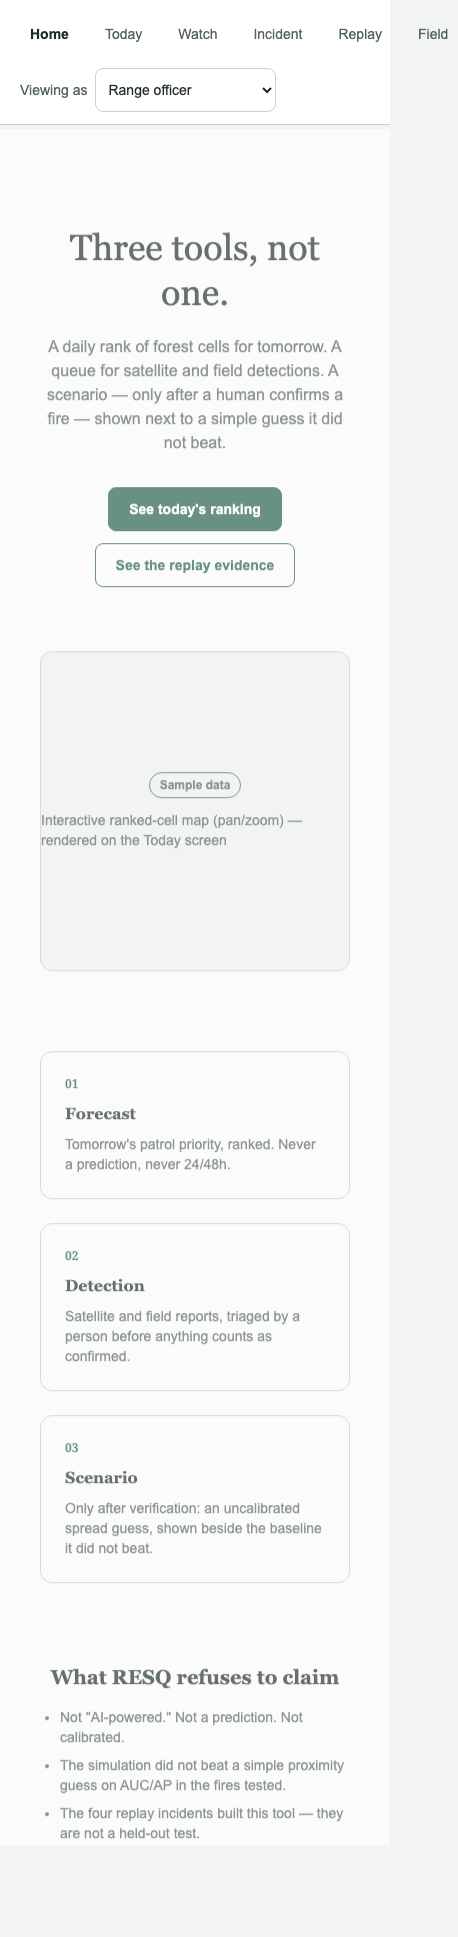
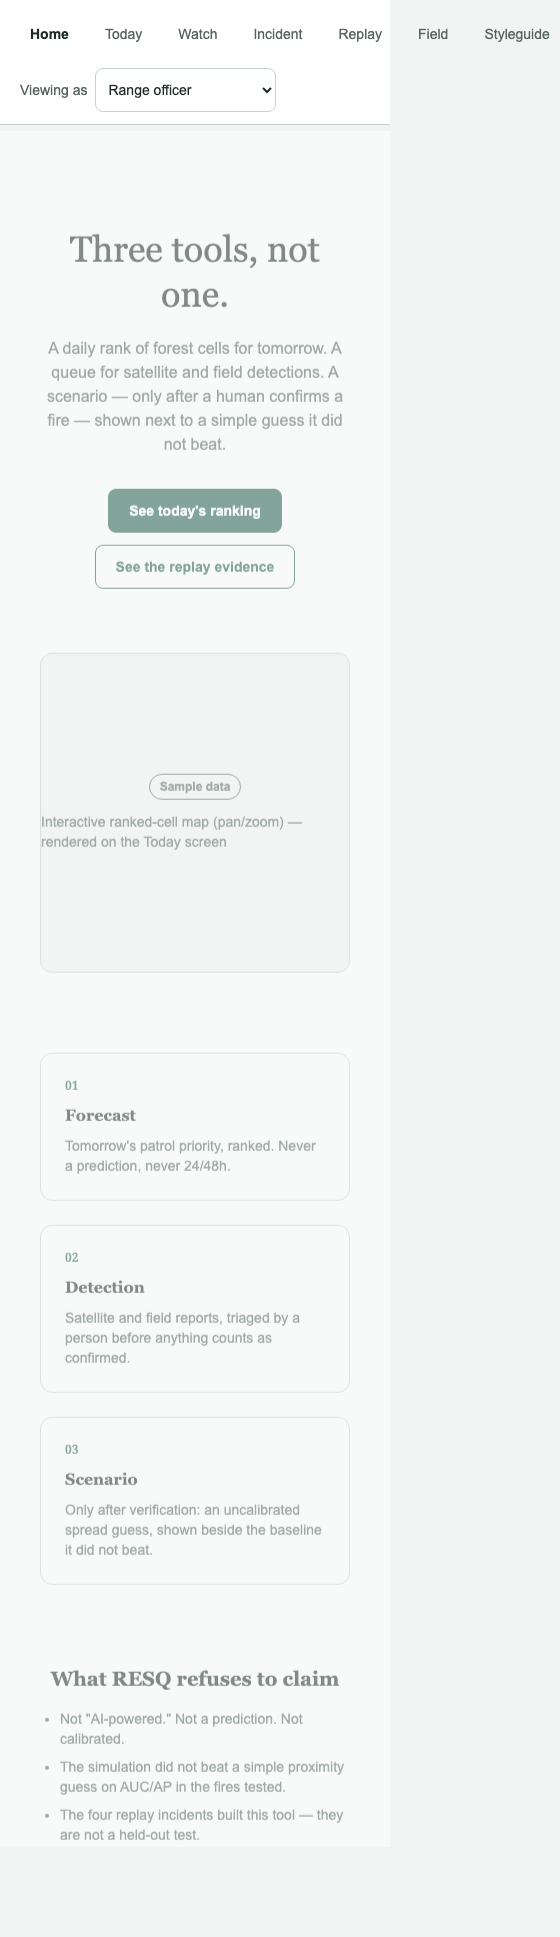
RESQ redesign Phase 2: /styleguide route, 23/23 tests pass
Adds frontend/src/redesign/pages/StyleguidePage.tsx at /redesign/styleguide,
showing every component from docs/redesign/08_design_system.md's inventory
in its documented states: TrustBadge/SampleDataBadge/Chip (all 4 trust
levels), StepIndicator, RiskCell/ProbabilityBand legends, MapShell/
LayerPanel/WindArrowsControl (new, minimal — map.tsx), DetectionCard/
VerifyActions across new/verified/dismissed/loading, TimelineSlider/
BaselineToggle (on + hidden-reminder-off)/WindSourceSwitch/AssumptionsPanel/
BriefingExport, PhotoCapture/SyncQueue (pending/syncing/synced/failed),
RoleSwitcher, EmptyState/OfflineBanner/Toast/Dialog, and Button in all
variants including disabled and focus-visible.

MapShell/LayerPanel/WindArrowsControl are new, genuinely minimal components
— defined per spec but not yet wired into the live Incident screen (which
still uses its own inline probability-grid renderer). Noted in PROGRESS.md.

diff --git a/frontend/src/redesign/pages/StyleguidePage.tsx b/frontend/src/redesign/pages/StyleguidePage.tsx
@@ -1,0 +1,134 @@
+import { useState } from 'react';
+import {
+  TrustBadge, SampleDataBadge, Chip, StepIndicator, EmptyState, OfflineBanner, Toast, Dialog, Button,
+} from '../components/primitives';
+import {
+  RiskLegend, ProbabilityBandLegend, WindSourceSwitch, BaselineToggle, AssumptionsPanel, TimelineSlider, BriefingExport,
+} from '../components/scenario';
+import { MapShell, LayerPanel, WindArrowsControl } from '../components/map';
+import { DetectionCard, VerifyActions } from '../components/watch';
+import { PhotoCapture, SyncQueue } from '../components/field';
+import { RoleSwitcher } from '../components/RoleSwitcher';
+import type { Detection, QueuedFieldReport, Role } from '../lib/types';
+
+function Section({ id, title, children }: { id: string; title: string; children: React.ReactNode }) {
+  return (
+    <section id={id} className="border-b border-contour py-8">
+      <h2 className="mb-1 font-serif text-xl">{title}</h2>
+      <div className="mt-4 flex flex-wrap items-start gap-6">{children}</div>
+    </section>
+  );
+}
+
+function StateLabel({ label, children }: { label: string; children: React.ReactNode }) {
+  return (
+    <div className="w-64">
+      <p className="mb-1.5 text-xs font-semibold uppercase tracking-wide text-ink-muted">{label}</p>
+      {children}
+    </div>
+  );
+}
+
+const SAMPLE_DETECTION: Detection = {
+  id: 'det-sample', incident_id: 'E2023-084925', source: 'VIIRS', state: 'OD', label: 'Similipal, Odisha — Mar 2023',
+  detected_at: '2023-03-07T07:29:00Z', confidence: 'nominal', status: 'new', lat: 19.3, lon: 83.9, frp: 4.6,
+};
+
+const SAMPLE_QUEUE: QueuedFieldReport[] = [
+  { idempotency_key: '1', task_id: 't1', note: '', photo_name: null, captured_at: new Date().toISOString(), state: 'pending', attempts: 0 },
+  { idempotency_key: '2', task_id: 't2', note: '', photo_name: null, captured_at: new Date().toISOString(), state: 'syncing', attempts: 1 },
+  { idempotency_key: '3', task_id: 't3', note: '', photo_name: null, captured_at: new Date().toISOString(), state: 'synced', attempts: 1 },
+  { idempotency_key: '4', task_id: 't4', note: '', photo_name: null, captured_at: new Date().toISOString(), state: 'failed', attempts: 2 },
+];
+
+export function StyleguidePage() {
+  const [role, setRole] = useState<Role>('range_officer');
+  const [layers, setLayers] = useState(new Set(['risk']));
+  const [baseline, setBaseline] = useState(true);
+  const [wind, setWind] = useState('era5land_native');
+  const [windArrows, setWindArrows] = useState(true);
+  const [k, setK] = useState(2);
+  const [toast, setToast] = useState(false);
+  const [dialog, setDialog] = useState(false);
+
+  return (
+    <div data-rq-app className="mx-auto max-w-5xl px-5 py-8">
+      <h1 className="font-serif text-2xl">Styleguide</h1>
+      <p className="mt-1 text-sm text-ink-muted">Every redesign-v2 component from docs/redesign/08_design_system.md, in its documented states.</p>
+
+      <Section id="trust-sample" title="TrustBadge / SampleDataBadge / Chip">
+        <StateLabel label="Forecast"><TrustBadge level="forecast">Ranked, not predicted</TrustBadge></StateLabel>
+        <StateLabel label="Detection"><TrustBadge level="detection">Not yet verified</TrustBadge></StateLabel>
+        <StateLabel label="Verified"><TrustBadge level="verified">Confirmed by a person</TrustBadge></StateLabel>
+        <StateLabel label="Scenario"><TrustBadge level="scenario">Uncalibrated scenario</TrustBadge></StateLabel>
+        <StateLabel label="Sample data"><SampleDataBadge /></StateLabel>
+        <StateLabel label="Chip"><Chip>est. 2.1 km²</Chip></StateLabel>
+      </Section>
+
+      <Section id="step-indicator" title="StepIndicator">
+        <div className="w-full"><StepIndicator current="Scenario" /></div>
+      </Section>
+
+      <Section id="legends" title="RiskCell legend / ProbabilityBand legend">
+        <StateLabel label="Risk ramp"><RiskLegend /></StateLabel>
+        <StateLabel label="Probability bands"><ProbabilityBandLegend /></StateLabel>
+      </Section>
+
+      <Section id="map" title="MapShell / LayerPanel / WindArrowsControl">
+        <StateLabel label="Default"><MapShell label="Map placeholder" /></StateLabel>
+        <StateLabel label="Empty"><MapShell label="No data for this view" /></StateLabel>
+        <StateLabel label="Layer panel"><LayerPanel active={layers} onToggle={(id) => setLayers((prev) => { const next = new Set(prev); next.has(id) ? next.delete(id) : next.add(id); return next; })} /></StateLabel>
+        <StateLabel label="Wind arrows toggle"><WindArrowsControl visible={windArrows} onChange={setWindArrows} /></StateLabel>
+      </Section>
+
+      <Section id="watch" title="DetectionCard / VerifyActions / QueueList">
+        <StateLabel label="New (default)"><DetectionCard detection={SAMPLE_DETECTION} busy={false} onAction={() => {}} /></StateLabel>
+        <StateLabel label="Verified"><DetectionCard detection={{ ...SAMPLE_DETECTION, status: 'verify' }} busy={false} onAction={() => {}} /></StateLabel>
+        <StateLabel label="Dismissed"><DetectionCard detection={{ ...SAMPLE_DETECTION, status: 'dismiss' }} busy={false} onAction={() => {}} /></StateLabel>
+        <StateLabel label="Loading (busy)"><DetectionCard detection={SAMPLE_DETECTION} busy onAction={() => {}} /></StateLabel>
+        <StateLabel label="Actions, disabled"><VerifyActions onAction={() => {}} disabled /></StateLabel>
+      </Section>
+
+      <Section id="scenario" title="TimelineSlider / BaselineToggle / WindSourceSwitch / AssumptionsPanel / BriefingExport">
+        <StateLabel label="Timeline"><TimelineSlider k={k} maxK={7} onChange={setK} /></StateLabel>
+        <StateLabel label="Baseline on"><BaselineToggle visible={baseline} onChange={setBaseline} /></StateLabel>
+        <StateLabel label="Baseline off (hidden reminder)"><BaselineToggle visible={false} onChange={() => {}} /></StateLabel>
+        <StateLabel label="Wind source"><WindSourceSwitch value={wind} onChange={setWind} /></StateLabel>
+        <StateLabel label="Assumptions"><AssumptionsPanel fuel="TL2/GR1 uncalibrated crosswalk" weather="27°C, 40% RH fixed" terrain="Copernicus GLO-30 DEM" /></StateLabel>
+        <StateLabel label="Export"><BriefingExport onExport={() => {}} /></StateLabel>
+      </Section>
+
+      <Section id="field" title="PhotoCapture / SyncQueue">
+        <StateLabel label="Capture (default)"><PhotoCapture onCapture={() => {}} /></StateLabel>
+        <StateLabel label="Queue: pending/syncing/synced/failed"><SyncQueue items={SAMPLE_QUEUE} onRetry={() => {}} /></StateLabel>
+      </Section>
+
+      <Section id="role" title="RoleSwitcher">
+        <StateLabel label="Default"><RoleSwitcher role={role} onChange={setRole} /></StateLabel>
+      </Section>
+
+      <Section id="state" title="EmptyState / OfflineBanner / Toast / Dialog">
+        <StateLabel label="Empty"><EmptyState title="Not validated here" body="Outside the six scoped states, no value is shown." /></StateLabel>
+        <StateLabel label="Offline"><OfflineBanner lastSyncedAt="14:02" /></StateLabel>
+        <StateLabel label="Toast"><Button onClick={() => setToast(true)}>Show toast</Button>{toast && <Toast message="Report synced." onClose={() => setToast(false)} />}</StateLabel>
+        <StateLabel label="Dialog">
+          <Button onClick={() => setDialog(true)}>Open dialog</Button>
+          {dialog && <Dialog title="Confirm escalation" onClose={() => setDialog(false)}><p className="text-sm">This will notify the control room.</p></Dialog>}
+        </StateLabel>
+      </Section>
+
+      <Section id="buttons" title="Button — default / hover / focus / disabled">
+        <StateLabel label="Primary"><Button variant="primary">Verify</Button></StateLabel>
+        <StateLabel label="Secondary"><Button variant="secondary">Dismiss</Button></StateLabel>
+        <StateLabel label="Danger"><Button variant="danger">Escalate</Button></StateLabel>
+        <StateLabel label="Disabled"><Button variant="primary" disabled>Verify</Button></StateLabel>
+        <StateLabel label="Focus (tab to it)"><Button variant="primary" autoFocus>Focus me</Button></StateLabel>
+      </Section>
+
+      <p className="mt-6 text-xs text-ink-muted">
+        Hover/stale states are documented per-component in 08_design_system.md but are not separately instrumented here
+        beyond native CSS :hover — use a mouse to see hover treatment on any button/card above.
+      </p>
+    </div>
+  );
+}

diff --git a/frontend/src/redesign/components/map.tsx b/frontend/src/redesign/components/map.tsx
@@ -1,0 +1,56 @@
+import type { ReactNode } from 'react';
+
+/** MapShell — the shared map chrome (basemap, overlays, controls). Today this wraps a plain
+ *  bordered frame holding whatever child layer is passed in (e.g. IncidentPage's probability
+ *  grid); it is not yet a georeferenced MapLibre + PMTiles map. See docs/redesign/PROGRESS.md. */
+export function MapShell({ children, label }: { children?: ReactNode; label: string }) {
+  return (
+    <div role="img" aria-label={label} className="relative aspect-square w-full overflow-hidden rounded-rq border border-contour bg-paper">
+      {children ?? <div className="flex h-full items-center justify-center text-sm text-ink-muted">{label}</div>}
+    </div>
+  );
+}
+
+const DEFAULT_LAYERS = [
+  { id: 'risk', label: 'Risk cells', available: true },
+  { id: 'detections', label: 'Detections', available: true },
+  { id: 'incidents', label: 'Incidents', available: true },
+  { id: 'boundaries', label: 'Boundaries', available: false },
+  { id: 'roads', label: 'Roads', available: false },
+  { id: 'villages', label: 'Settlements', available: false },
+];
+
+export function LayerPanel({ active, onToggle }: { active: Set<string>; onToggle: (id: string) => void }) {
+  return (
+    <fieldset className="rounded-rq border border-contour bg-sheet p-3">
+      <legend className="px-1 text-xs font-semibold text-ink-muted">Layers</legend>
+      <ul className="space-y-1.5">
+        {DEFAULT_LAYERS.map((layer) => (
+          <li key={layer.id} className="flex items-center justify-between gap-2 text-sm">
+            <label className="flex items-center gap-2">
+              <input
+                type="checkbox"
+                disabled={!layer.available}
+                checked={active.has(layer.id)}
+                onChange={() => onToggle(layer.id)}
+                className="h-4 w-4"
+              />
+              {layer.label}
+            </label>
+            {!layer.available && <span className="text-xs text-ink-muted">Unavailable</span>}
+          </li>
+        ))}
+      </ul>
+    </fieldset>
+  );
+}
+
+/** WindArrowsControl — toggles hourly wind-direction arrows on the active scenario map. */
+export function WindArrowsControl({ visible, onChange }: { visible: boolean; onChange: (visible: boolean) => void }) {
+  return (
+    <label className="flex items-center gap-2 text-sm">
+      <input type="checkbox" checked={visible} onChange={(event) => onChange(event.target.checked)} className="h-4 w-4" />
+      <span aria-hidden>↗</span> Show hourly wind arrows
+    </label>
+  );
+}

diff --git a/frontend/src/redesign/RedesignRoot.tsx b/frontend/src/redesign/RedesignRoot.tsx
@@ -1,6 +1,7 @@
 import { useState } from 'react';
 import { QueryClient, QueryClientProvider } from '@tanstack/react-query';
 import { LandingPage } from './pages/LandingPage';
+import { StyleguidePage } from './pages/StyleguidePage';
 import { TodayPage } from './pages/TodayPage';
 import { WatchPage } from './pages/WatchPage';
 import { ReplayPage } from './pages/ReplayPage';
@@ -19,6 +20,7 @@ const NAV: { path: string; label: string }[] = [
   { path: '/redesign/incident/E2023-084925', label: 'Incident' },
   { path: '/redesign/replay', label: 'Replay' },
   { path: '/redesign/field', label: 'Field' },
+  { path: '/redesign/styleguide', label: 'Styleguide' },
 ];
 
 /** Entry point for the redesign-v2 surfaces, mounted at /redesign/* in the existing App shell
@@ -32,6 +34,7 @@ export function RedesignRoot({ path, go }: { path: string; go: (next: string) =>
   else if (path === '/redesign/replay' || path.startsWith('/redesign/replay/')) body = <ReplayPage />;
   else if (path.startsWith('/redesign/incident/')) body = <IncidentPage incidentId={path.split('/').pop() || 'E2023-084925'} />;
   else if (path === '/redesign/field') body = <FieldPage />;
+  else if (path === '/redesign/styleguide') body = <StyleguidePage />;
 
   return (
     <QueryClientProvider client={queryClient}>

diff --git a/frontend/tests/redesign.spec.ts b/frontend/tests/redesign.spec.ts
@@ -64,6 +64,14 @@ test('incident: switching wind source changes the rendered scenario', async ({ p
   expect(after).not.toEqual(before);
 });
 
+test('styleguide: renders and is axe-clean', async ({ page }) => {
+  await page.goto('/redesign/styleguide');
+  await page.waitForSelector('[data-rq-app]');
+  await page.screenshot({ path: '../docs/redesign/screenshots/phase2/styleguide_1440.png', fullPage: true });
+  const results = await new AxeBuilder({ page }).include('[data-rq-app]').analyze();
+  expect(results.violations, JSON.stringify(results.violations, null, 2)).toEqual([]);
+});
+
 test('field: duplicate idempotency key is deduped server-side', async ({ page, request }) => {
   const base = process.env.VITE_API_BASE_URL || 'http://localhost:8201';
   const body = {

diff --git a/frontend/src/redesign/lib/types.ts b/frontend/src/redesign/lib/types.ts
@@ -23,6 +23,7 @@ export interface Detection {
   status: 'new' | 'verify' | 'dismiss' | 'escalate';
   lat: number;
   lon: number;
+  frp?: number;
 }
 
 export interface TriageAction {
